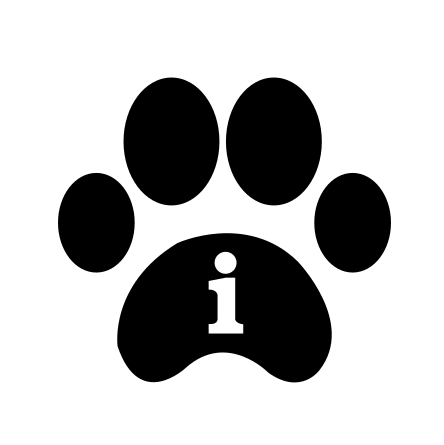
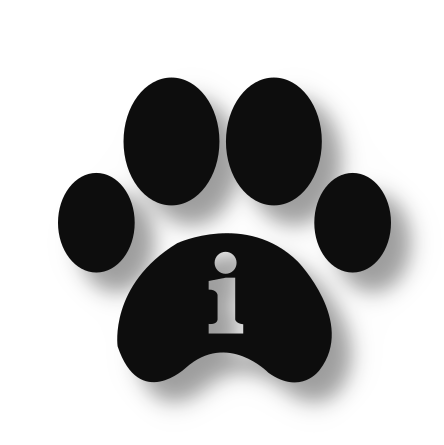
fix du style pour les actualités coté utilisateurs afin de corresponde à la maquette validée

Changed region(s): [[0.2928, 0.409, 0.9369, 0.9348], [0.1757, 0.2045, 0.7905, 0.6719], [0.4685, 0.5551, 0.5563, 0.7596]]

diff --git a/public/assets/css/actuality.css b/public/assets/css/actuality.css
@@ -1,15 +1,37 @@
 section {
+    background-image: url("../images/empreintechienblanc.png");
+    background-color: var(--light);
+    background-repeat: repeat-y;
+    background-size: 50%;
+    background-position: 80% 30%;
+    padding-top: calc(var(--spacing) * 2);
+    --text-shadow: 8px 5px 8px rgba(0, 0, 0, 0.5);
+}
+
+section > div {
     display: grid;
-    grid-template-columns: 1fr;
     gap: var(--spacing);
-    font-family: var(--font-text);
+    grid-template-columns: 1fr;
+}
+
+section > header > h1 {
+    font-size: clamp(1rem, 4vw, calc(var(--font-size) * 1.5));
+    color: var(--primary);
+    font-weight: 600;
+    font-family: var(--font-title);
+    text-align: center;
 }
 
 article {
     display: flex;
     flex-direction: column;
     justify-content: space-between;
-    background-color: var(--light);
+    width: clamp(360px, 70%, 95vw);
+    margin: var(--spacing);
+    --stagger-delay: 150ms;
+    animation: 400ms FadeInAnimation var(--stagger-delay) ease-out;
+    animation-fill-mode: backwards;
+    animation-iteration-count: 1;
 }
 
 article > header {
@@ -17,32 +39,32 @@ article > header {
     padding: var(--spacing);
     background-image: url("../images/dog-information.webp");
     background-repeat: no-repeat;
-    background-size: 5vw;
-    background-position: right;
+    background-size: 10%;
+    background-position: 97% 30%;
+    background-color: var(--light);
 }
 
 article > header > h2 {
     margin-bottom: 0;
     font-size: clamp(0.9rem, 1.9vw, var(--font-size));
     color: var(--secondary);
+    font-weight: 400;
+    text-shadow: var(--text-shadow);
 }
 
 article > footer {
     margin-top: calc(var(--block-spacing-vertical) * 2 / 3);
     padding: 0 0 0 calc(var(--spacing) * 2 / 3);
-    background-color: var(--primary);
     color: var(--light);
+    background-color: var(--primary);
 }
 
-footer [role="button"] {
+footer a[role="button"] {
     width: clamp(6rem, 10vw, 8rem);
     padding: calc(var(--spacing) / 3) calc(var(--spacing) / 3);
     border-radius: 0;
-}
-
-.news-content {
-    margin: calc(var(--spacing) / 2);
-    padding: calc(var(--spacing) / 2);
+    text-shadow: var(--text-shadow);
+    font-size: calc(var(--font-size) * 3 / 4);
 }
 
 article > footer {
@@ -50,4 +72,68 @@ article > footer {
     flex-direction: row;
     justify-content: space-between;
     align-items: center;
+    padding: 0;
+}
+
+article:nth-child(even) {
+    justify-self: end;
+}
+
+article:nth-child(odd) {
+    justify-self: start;
+}
+
+article:nth-child(even) > header {
+    text-align: right;
+    padding-right: 15%;
+}
+
+article:nth-child(odd) > header {
+    background-position: 3% 30%;
+    text-align: left;
+    padding-left: 15%;
+}
+
+article:nth-child(even) > footer {
+    flex-direction: row-reverse;
+    padding-inline-end: 2vw;
+    background-image: linear-gradient(
+        to right,
+        var(--intermadiate) 30%,
+        var(--primary) 70%
+    );
+}
+
+article:nth-child(odd) > footer {
+    padding-inline-start: 2vw;
+    background-image: linear-gradient(
+        to left,
+        var(--intermadiate) 30%,
+        var(--primary) 70%
+    );
+}
+
+@keyframes FadeInAnimation {
+    from {
+        opacity: 0.3;
+        transform: scale(0);
+    }
+    to {
+        opacity: 1;
+        transform: scale(1);
+    }
+}
+
+@media screen and (width <= 500px) {
+    article {
+        width: 99%;
+        justify-content: center;
+    }
+
+    article:nth-child(odd) {
+        justify-self: center;
+    }
+    article:nth-child(even) {
+        justify-self: center;
+    }
 }

diff --git a/src/routes.php b/src/routes.php
@@ -13,5 +13,5 @@ return [
     'items/show' => ['ItemController', 'show', ['id']],
     'items/add' => ['ItemController', 'add',],
     'items/delete' => ['ItemController', 'delete',],
-    'Actualities'  => ['ActualityController', 'index'],
+    'Actualites'  => ['ActualityController', 'index'],
 ];
